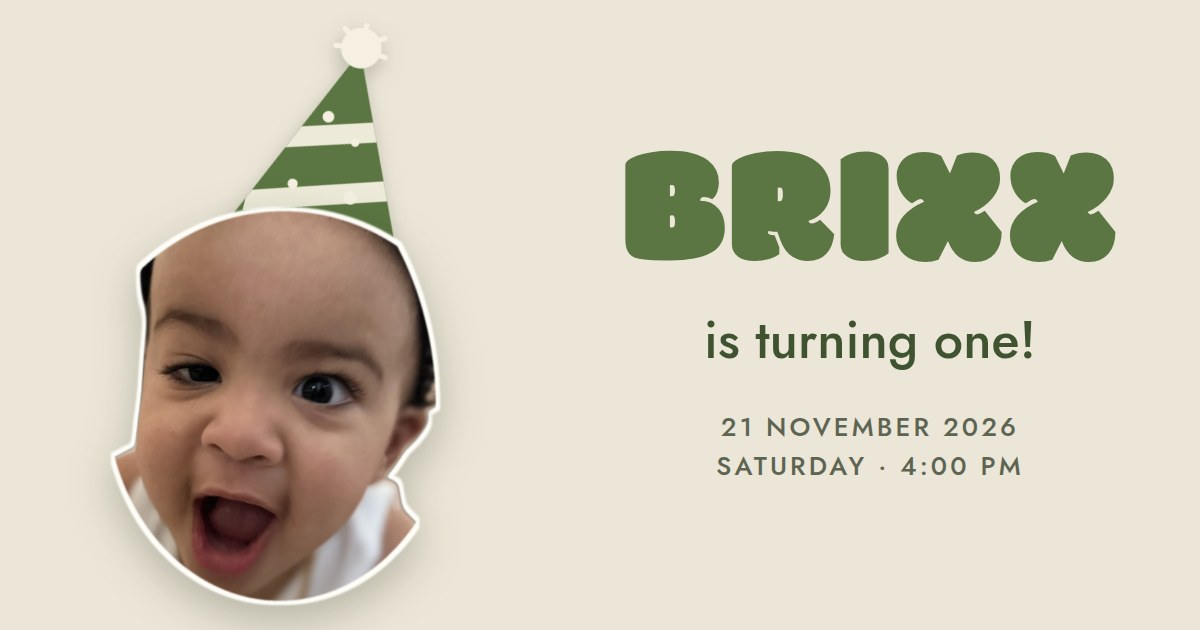
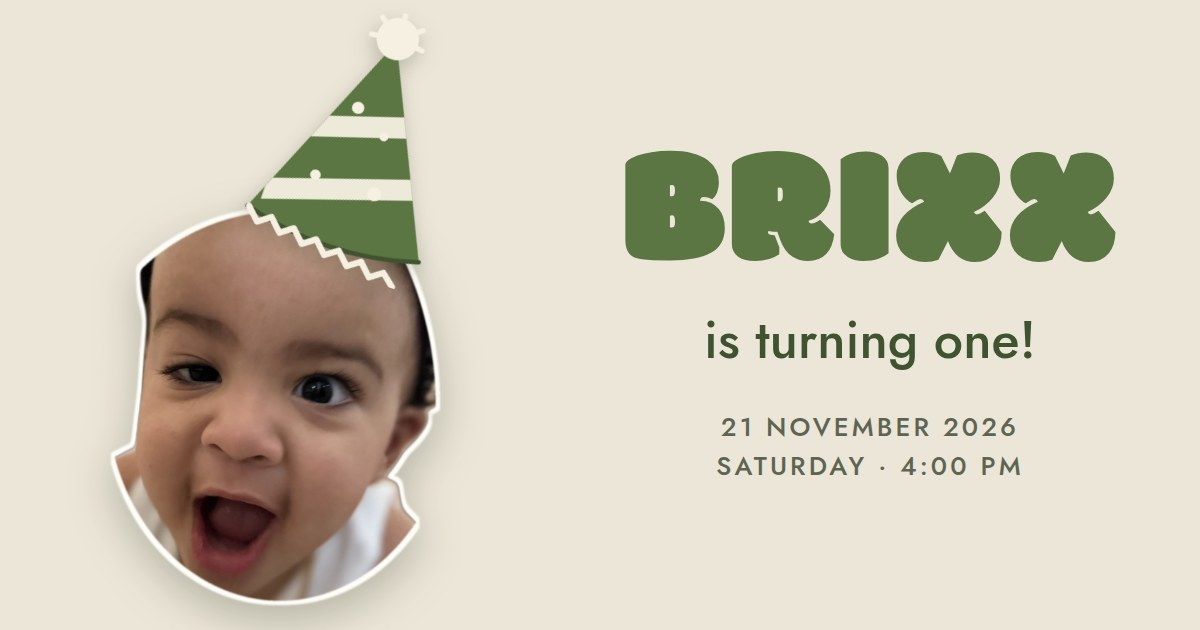
Preview card: align hat base with the slope of his head
Claude-Session: https://claude.ai/code/session_01FwCrGyPUUyEoV6NG9hieg5

Changed region(s): [[0.185, 0.0603, 0.37, 0.4524]]

diff --git a/docs/index.html b/docs/index.html
@@ -11,13 +11,13 @@
 <meta property="og:title" content="Brixx’s 1st Lūʻau">
 <meta property="og:description" content="Saturday, 21 November 2026 · 4:00 PM · Kāneʻohe. Tap to see the invitation and RSVP.">
 <meta property="og:url" content="https://briannepark.github.io/brixx-first-birthday/">
-<meta property="og:image" content="https://briannepark.github.io/brixx-first-birthday/preview.jpg?v=5">
+<meta property="og:image" content="https://briannepark.github.io/brixx-first-birthday/preview.jpg?v=6">
 <meta property="og:image:width" content="1200">
 <meta property="og:image:height" content="630">
 <meta property="og:image:alt" content="Brixx grinning in a green party hat, next to the words BRIXX is turning one!">
 <meta name="twitter:card" content="summary_large_image">
 <meta name="twitter:title" content="Brixx’s 1st Lūʻau">
-<meta name="twitter:image" content="https://briannepark.github.io/brixx-first-birthday/preview.jpg?v=5">
+<meta name="twitter:image" content="https://briannepark.github.io/brixx-first-birthday/preview.jpg?v=6">
 <meta name="theme-color" content="#ece6d8">
 <style>
   :root { color-scheme: light; }
@@ -29,7 +29,7 @@
 </style>
 </head>
 <body>
-<img src="preview.jpg?v=5" alt="Brixx is turning one! 21 November 2026, Saturday, 4:00 PM">
+<img src="preview.jpg?v=6" alt="Brixx is turning one! 21 November 2026, Saturday, 4:00 PM">
 <p>Opening the invitation…</p>
 <a id="go" href="https://app.windmill.dev/a/bri-dev/brixx-turns-one">Open the invitation</a>
 <script>
